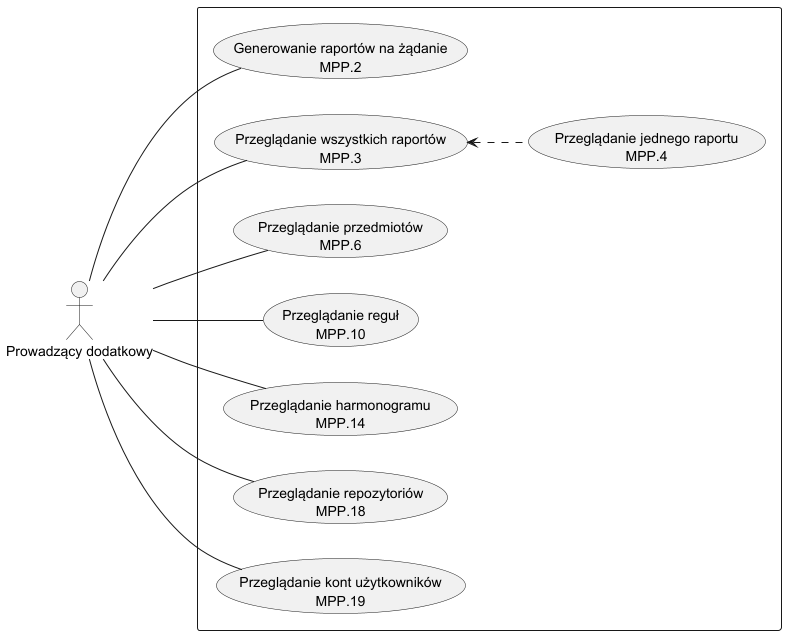
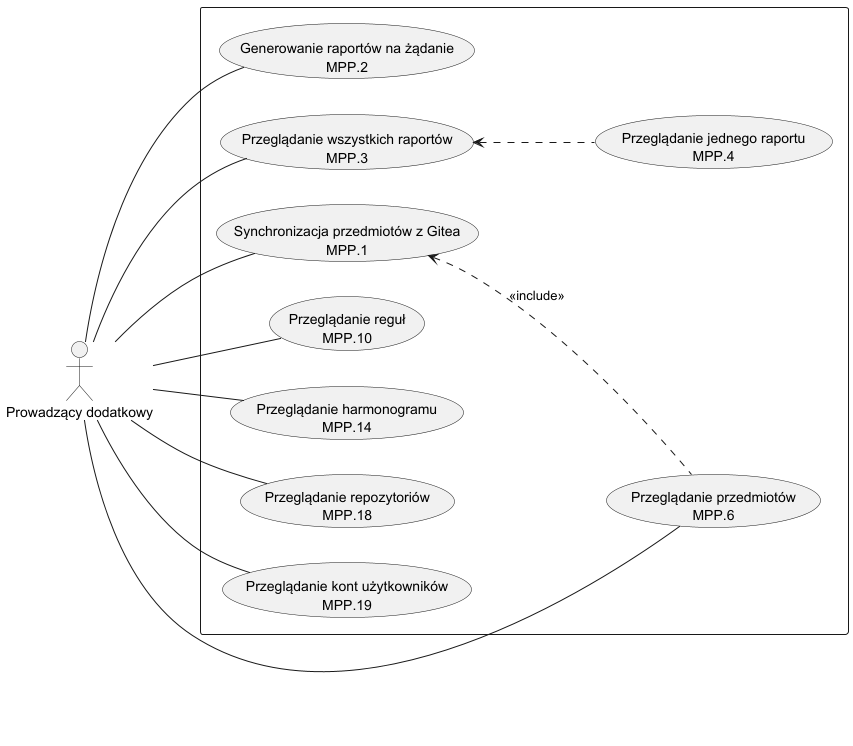
SSBD: Poprawki przypadków użycia (doc#18)

diff --git a/ssbd/1wstepny/02moduly.md b/ssbd/1wstepny/02moduly.md
@@ -748,7 +748,7 @@ Tabela 1.2.39 Scenariusz dla przypadku użycia MPP.24
 - MOK.12 - Edytuj dane własnego konta
 - MOK.13 - Edytuj dane konta innego użytkownika
 - MOK.14 - Wyloguj
-- MPP.1 - Generowanie raportu po ustawieniu harmonogramu
+- MPP.1 - Synchronizacja przedmiotów z Gitea
 - MPP.2 - Generowanie raportu na żądanie
 - MPP.3 - Przeglądanie wszystkich raportów
 - MPP.4 - Przeglądanie jednego raportu
